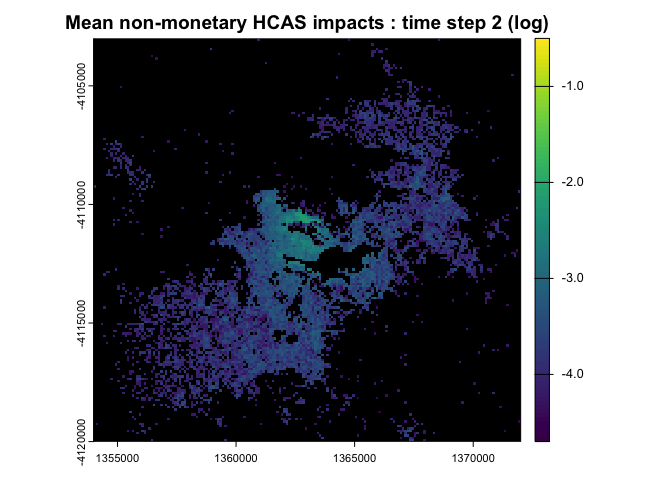
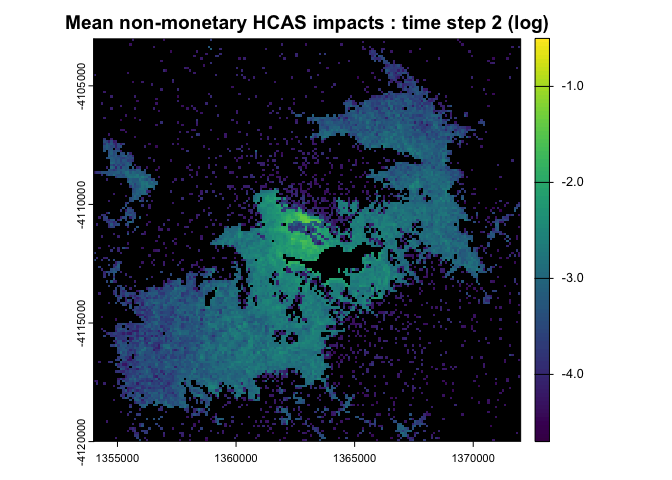
Update readme example with impacts and management actions (2)

diff --git a/README.md b/README.md
@@ -950,9 +950,9 @@ result_rast
 #> sources     : occupancy_t0_mean.tif  
 #>               occupancy_t1_mean.tif  
 #>               occupancy_t2_mean.tif  
-#> names       :     0,     1,    2 
-#> min values  : 0.000, 0.000, 0.00 
-#> max values  : 0.037, 0.313, 0.84 
+#> names       :     0,     1,     2 
+#> min values  : 0.000, 0.000, 0.000 
+#> max values  : 0.034, 0.304, 0.846 
 #> 
 #> $`impacts_non-monetary_HCAS_mean`
 #> class       : SpatRaster 
@@ -965,7 +965,7 @@ result_rast
 #>               impacts_non-monetary_HCAS_t2_mean.tif  
 #> names       :           0,          1,         2 
 #> min values  : 0.000000000, 0.00000000, 0.0000000 
-#> max values  : 0.006406152, 0.05424767, 0.1623542 
+#> max values  : 0.006237028, 0.05308106, 0.1633263 
 #> 
 #> $`impacts_non-monetary_HCAS_sd`
 #> class       : SpatRaster 
@@ -978,7 +978,7 @@ result_rast
 #>               impacts_non-monetary_HCAS_t2_sd.tif  
 #> names       :          0,         1,          2 
 #> min values  : 0.00000000, 0.0000000, 0.00000000 
-#> max values  : 0.03269842, 0.0872497, 0.09710664
+#> max values  : 0.03432082, 0.0866648, 0.09624621
 # Plot the mean occupancy for time steps 0, 1 and 2
 label <- attr(result_rast$occupancy_mean, "metadata")$label
 for (i in 1:3) {
@@ -1025,21 +1025,21 @@ results$save_csv()
 total_occupancy <- read.csv("total_occupancy.csv")
 colnames(total_occupancy)[1] <- "Total occupancy"
 print(total_occupancy)
-#>   Total occupancy t0        t1       t2
-#> 1            mean  1 22.367000 442.4290
-#> 2              sd  0  4.954883 100.9872
+#>   Total occupancy t0        t1        t2
+#> 1            mean  1 22.233000 439.92400
+#> 2              sd  0  4.626675  96.07942
 total_area_occupied <- read.csv("total_area_occupied.csv")
 colnames(total_area_occupied)[1] <- "Total area occupied"
 print(total_area_occupied)
-#>   Total area occupied    t0        t1      t2
-#> 1                mean 10000 223670.00 4424290
-#> 2                  sd     0  49548.83 1009872
+#>   Total area occupied    t0        t1        t2
+#> 1                mean 10000 222330.00 4399240.0
+#> 2                  sd     0  46266.75  960794.2
 total_impacts <- read.csv("total_impacts_non-monetary_HCAS.csv")
 colnames(total_impacts)[1] <- "Total non-monetary impacts"
 print(total_impacts)
-#>   Total non-monetary impacts         t0        t1        t2
-#> 1                       mean 0.13144877 2.3661143 39.280901
-#> 2                         sd 0.04835405 0.5813789  8.752391
+#>   Total non-monetary impacts        t0        t1        t2
+#> 1                       mean 0.1314119 2.3386164 39.057946
+#> 2                         sd 0.0480558 0.5489788  8.318391
 ```
 
 Time-series plots of total occupancy, total area occupied, and total
@@ -1064,18 +1064,20 @@ surveillance (detection) and removal management actions and compare
 results.
 
 The mean occupancy output (at time step 2) from our unmanaged spread
-model simulations from step 6 may be utilised, as an approximate
-reproduction of the spread distribution of the Williams et al. (2008)
-model, to build an example surveillance design that reproduces the
-design described in Hauser & McCarthy (2009). This example surveillance
-design is described in the
+model simulations from example step 6 (above) may be utilised, as an
+approximate reproduction of the spread distribution of the Williams et
+al. (2008) model, to build an example surveillance design that
+reproduces the design described in Hauser & McCarthy (2009). This
+example surveillance design is described in the
 [bsspread](https://github.com/cebra-analytics/bsdesign) package. The
 sensitivity or detection probability of this surveillance design may
 then be utilised for simulating surveillance (detection) actions. The
 sensitivity distribution of a surveillance design built using a previous
 population spread simulation run may be downloaded from
 [here](https://github.com/cebra-analytics/bsspread/tree/main/data) and
-copied into a *data* directory.
+copied into a *data* directory. Our simulated surveillance detection
+actions are scheduled to be applied at simulation time steps 1 & 2 only,
+and thus not to the initial incursion at time step 0.
 
 ``` r
 # Load the sensitivity of our corresponding surveillance design example
@@ -1085,7 +1087,8 @@ detect_action <- bsspread::Detection(
   region,
   population_model,
   sensitivity = sensitivity_rast[region$get_indices()][,1], # as vector
-  sensitivity_type = "presence"
+  sensitivity_type = "presence",
+  schedule = c(1, 2)
 )
 terra::plot(sensitivity_rast,
             main = "Hawkweed surveillance sensitivity",
@@ -1094,16 +1097,19 @@ terra::plot(sensitivity_rast,
 
 <img src="man/figures/README-example_8_1-1.png" width="100%" style="display: block; margin: auto;" />
 
-Our simulated removal actions will utilise a constant 90% success rate
+Our simulated removal actions will utilise a constant 95% success rate
 to account for undiscovered Hawkweed at locations where its simulated
-presence has been detected.
+presence has been detected. Again, we will schedule removals to be
+applied at simulation time steps 1 & 2, but not to the initial incursion
+at time step 0.
 
 ``` r
 # Presence-based detection actions
 remove_action <- bsspread::Removals(
   region,
   population_model,
-  removal_pr = 0.9
+  removal_pr = 0.95,
+  schedule = c(1, 2)
 )
 ```
 
@@ -1151,9 +1157,9 @@ result_rast
 #> sources     : occupancy_t0_mean.tif  
 #>               occupancy_t1_mean.tif  
 #>               occupancy_t2_mean.tif  
-#> names       :     0,     1,    2 
-#> min values  : 0.000, 0.000, 0.00 
-#> max values  : 0.007, 0.007, 0.01 
+#> names       :     0,     1,     2 
+#> min values  : 0.000, 0.000, 0.000 
+#> max values  : 0.031, 0.039, 0.047 
 #> 
 #> $`impacts_non-monetary_HCAS_mean`
 #> class       : SpatRaster 
@@ -1164,9 +1170,9 @@ result_rast
 #> sources     : impacts_non-monetary_HCAS_t0_mean.tif  
 #>               impacts_non-monetary_HCAS_t1_mean.tif  
 #>               impacts_non-monetary_HCAS_t2_mean.tif  
-#> names       :           0,           1,           2 
-#> min values  : 0.000000000, 0.000000000, 0.000000000 
-#> max values  : 0.006998935, 0.006418557, 0.007387764 
+#> names       :           0,          1,          2 
+#> min values  : 0.000000000, 0.00000000, 0.00000000 
+#> max values  : 0.005926928, 0.05444211, 0.04665956 
 #> 
 #> $`impacts_non-monetary_HCAS_sd`
 #> class       : SpatRaster 
@@ -1179,7 +1185,7 @@ result_rast
 #>               impacts_non-monetary_HCAS_t2_sd.tif  
 #> names       :          0,          1,          2 
 #> min values  : 0.00000000, 0.00000000, 0.00000000 
-#> max values  : 0.03623568, 0.03422976, 0.03718999 
+#> max values  : 0.03315338, 0.08734528, 0.08307285 
 #> 
 #> $actions_1_detected_mean
 #> class       : SpatRaster 
@@ -1190,9 +1196,9 @@ result_rast
 #> sources     : actions_1_detected_t0_mean.tif  
 #>               actions_1_detected_t1_mean.tif  
 #>               actions_1_detected_t2_mean.tif  
-#> names       :     0,     1,     2 
-#> min values  : 0.000, 0.000, 0.000 
-#> max values  : 0.036, 0.036, 0.042 
+#> names       : 0,     1,     2 
+#> min values  : 0, 0.000, 0.000 
+#> max values  : 0, 0.304, 0.254 
 #> 
 #> $actions_2_removed_mean
 #> class       : SpatRaster 
@@ -1203,9 +1209,9 @@ result_rast
 #> sources     : actions_2_removed_t0_mean.tif  
 #>               actions_2_removed_t1_mean.tif  
 #>               actions_2_removed_t2_mean.tif  
-#> names       :     0,     1,     2 
-#> min values  : 0.000, 0.000, 0.000 
-#> max values  : 0.033, 0.035, 0.038
+#> names       : 0,     1,     2 
+#> min values  : 0, 0.000, 0.000 
+#> max values  : 0, 0.295, 0.242
 # Plot the mean occupancy and impacts for time steps 2
 label <- attr(result_rast$occupancy_mean, "metadata")$label
 terra::plot(log(result_rast$occupancy_mean[[3]], base = 10), colNA = "black",
@@ -1229,7 +1235,7 @@ terra::plot(log(result_rast$`impacts_non-monetary_HCAS_mean`[[3]], base = 10),
 label <- attr(result_rast$actions_1_detected_mean[[3]], "metadata")$label
 terra::plot(log(result_rast$actions_1_detected_mean[[3]], base = 10),
             colNA = "black", main = paste(label, ": time step 2 (log)"),
-            range = c(-3, -1))
+            range = c(-3, -0.5))
 ```
 
 <img src="man/figures/README-example_8_4-3.png" width="100%" style="display: block; margin: auto;" />
@@ -1238,7 +1244,7 @@ terra::plot(log(result_rast$actions_1_detected_mean[[3]], base = 10),
 label <- attr(result_rast$actions_2_removed_mean[[3]], "metadata")$label
 terra::plot(log(result_rast$actions_2_removed_mean[[3]], base = 10),
             colNA = "black", main = paste(label, ": time step 2 (log)"),
-            range = c(-3, -1))
+            range = c(-3, -0.5))
 ```
 
 <img src="man/figures/README-example_8_4-4.png" width="100%" style="display: block; margin: auto;" />
@@ -1262,37 +1268,37 @@ colnames(total_occupancy)[1] <- "Total mean occupancy"
 total_occupancy[,1] <- c("unmanaged", "managed")
 total_occupancy[2, 2:4] <- total_occupancy_managed[1, 2:4]
 print(total_occupancy)
-#>   Total mean occupancy    t0     t1      t2
-#> 1            unmanaged 1.000 22.367 442.429
-#> 2              managed 0.121  0.937  13.786
+#>   Total mean occupancy t0     t1      t2
+#> 1            unmanaged  1 22.233 439.924
+#> 2              managed  1  6.743 102.206
 total_area_occupied_managed <- read.csv("total_area_occupied.csv")
 colnames(total_area_occupied)[1] <- "Total mean area occupied"
 total_area_occupied[,1] <- c("unmanaged", "managed")
 total_area_occupied[2, 2:4] <- total_area_occupied_managed[1, 2:4]
 print(total_area_occupied)
 #>   Total mean area occupied    t0     t1      t2
-#> 1                unmanaged 10000 223670 4424290
-#> 2                  managed  1210   9370  137860
+#> 1                unmanaged 10000 222330 4399240
+#> 2                  managed 10000  67430 1022060
 total_impacts_managed <- read.csv("total_impacts_non-monetary_HCAS.csv")
 colnames(total_impacts)[1] <- "Total mean impacts"
 total_impacts[,1] <- c("unmanaged", "managed")
 total_impacts[2, 2:4] <- total_impacts_managed[1, 2:4]
 print(total_impacts)
-#>   Total mean impacts        t0        t1        t2
-#> 1          unmanaged 0.1314488 2.3661143 39.280901
-#> 2            managed 0.1312390 0.2849031  1.958447
+#>   Total mean impacts        t0       t1       t2
+#> 1          unmanaged 0.1314119 2.338616 39.05795
+#> 2            managed 0.1297683 2.339835 13.92141
 total_detected <- read.csv("total_actions_1_detected.csv")
 colnames(total_detected)[1] <- "Total detected"
 print(total_detected)
-#>   Total detected        t0       t1       t2
-#> 1           mean 0.9560000 1.983000  9.80100
-#> 2             sd 0.2051977 5.581565 28.98734
+#>   Total detected t0        t1       t2
+#> 1           mean  0 16.262000 64.14800
+#> 2             sd  0  4.105876 30.47367
 total_removed <- read.csv("total_actions_2_removed.csv")
 colnames(total_removed)[1] <- "Total removed"
 print(total_removed)
-#>   Total removed        t0       t1       t2
-#> 1          mean 0.8790000 1.782000  8.86800
-#> 2            sd 0.3262905 5.032077 26.25109
+#>   Total removed t0        t1       t2
+#> 1          mean  0 15.390000 60.92100
+#> 2            sd  0  3.981174 29.14134
 ```
 
 Time-series plots of total occupancy, total area occupied, total
